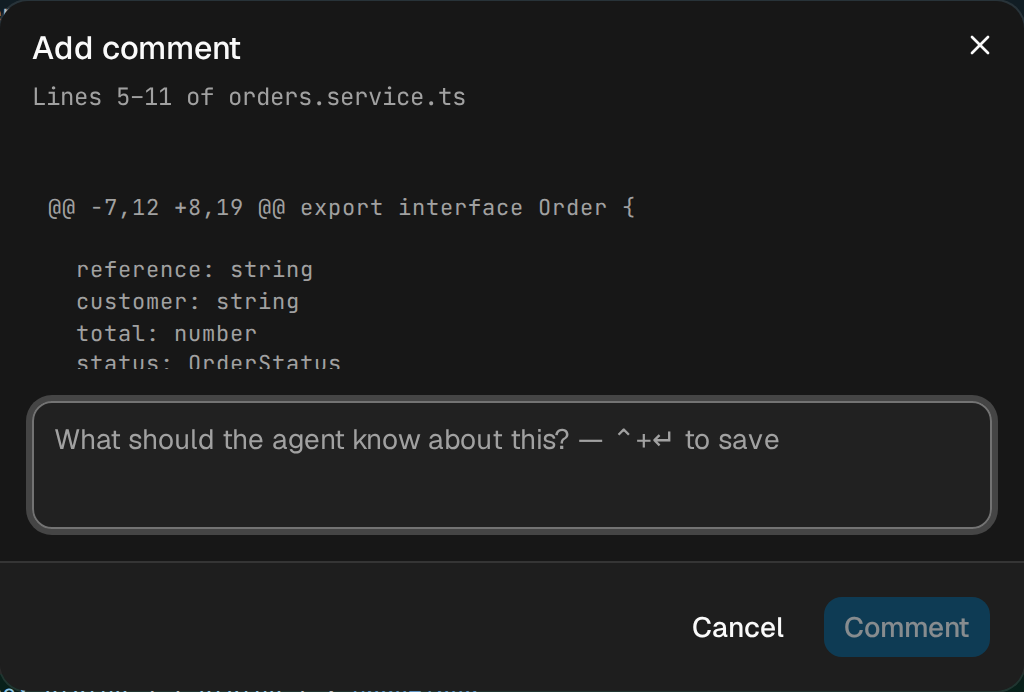
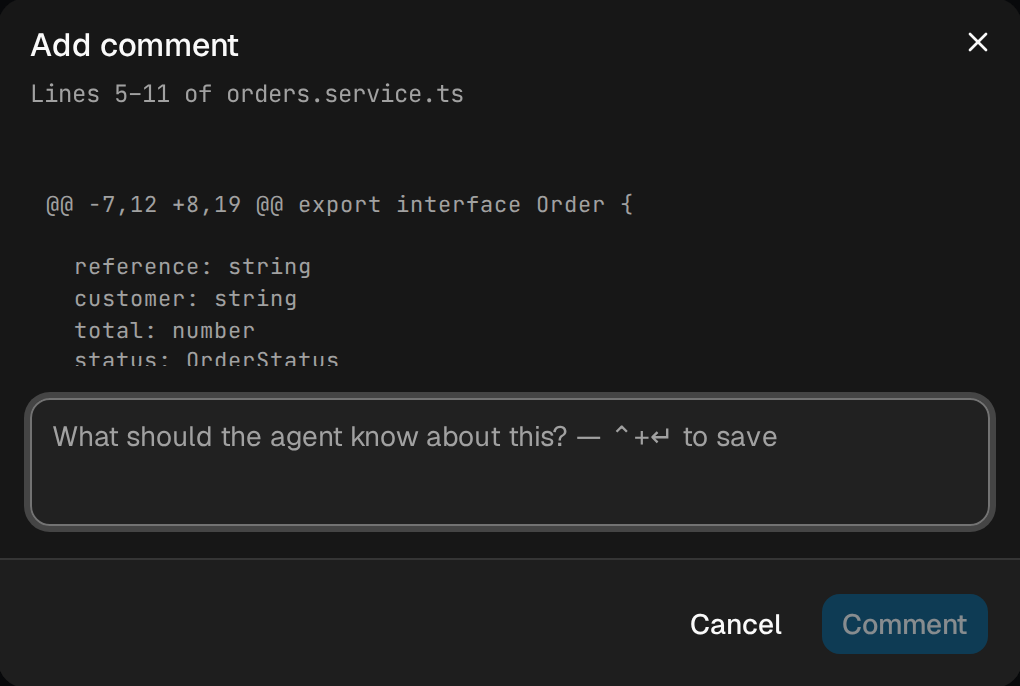
fix(shots): clean modal crops for search and comment
Solidify dialog overlays and inset the clip so rounded corners no longer leak app chrome into marketing PNGs.

diff --git a/e2e/marketing.shots.ts b/e2e/marketing.shots.ts
@@ -83,9 +83,60 @@ async function shoot(page: Page, name: string): Promise<void> {
   await page.screenshot({ path: join(SHOTS_DIR, name), scale: 'device' })
 }
 
-/** Element-scoped Retina screenshot — the tight crops (dialogs, one panel, one surface). */
-async function shootLocator(locator: Locator, name: string): Promise<void> {
-  await locator.screenshot({ path: join(SHOTS_DIR, name), scale: 'device' })
+/**
+ * Modal crops: element screenshots are rectangles, so rounded corners would show
+ * app chrome (selection teal, etc.) through transparent corners. Solidify the
+ * dialog overlay to product dark, drop the soft shadow, then clip a 1px inset.
+ */
+async function shootModal(page: Page, locator: Locator, name: string): Promise<void> {
+  await page.evaluate(() => {
+    document.getElementById('porcelain-shot-modal-mask')?.remove()
+    const mask = document.createElement('div')
+    mask.id = 'porcelain-shot-modal-mask'
+    mask.style.cssText = 'position:fixed;inset:0;z-index:49;background:#090b0c;pointer-events:none'
+    document.body.appendChild(mask)
+    for (const el of document.querySelectorAll<HTMLElement>(
+      '[data-slot="dialog-overlay"], [data-slot="dialog-content"]',
+    )) {
+      el.dataset.porcelainShotOverlay = '1'
+      if (el.getAttribute('data-slot') === 'dialog-overlay') {
+        el.style.setProperty('background', '#090b0c', 'important')
+        el.style.setProperty('backdrop-filter', 'none', 'important')
+        el.style.setProperty('-webkit-backdrop-filter', 'none', 'important')
+      } else {
+        el.style.setProperty('box-shadow', 'none', 'important')
+      }
+    }
+  })
+  try {
+    const box = await locator.boundingBox()
+    if (!box) throw new Error('modal has no bounding box')
+    const pad = 1
+    await page.screenshot({
+      path: join(SHOTS_DIR, name),
+      clip: {
+        x: box.x + pad,
+        y: box.y + pad,
+        width: Math.max(1, box.width - pad * 2),
+        height: Math.max(1, box.height - pad * 2),
+      },
+      scale: 'device',
+    })
+  } finally {
+    await page.evaluate(() => {
+      document.getElementById('porcelain-shot-modal-mask')?.remove()
+      for (const el of document.querySelectorAll<HTMLElement>(
+        '[data-slot="dialog-overlay"], [data-slot="dialog-content"]',
+      )) {
+        if (el.dataset.porcelainShotOverlay !== '1') continue
+        delete el.dataset.porcelainShotOverlay
+        el.style.removeProperty('background')
+        el.style.removeProperty('backdrop-filter')
+        el.style.removeProperty('-webkit-backdrop-filter')
+        el.style.removeProperty('box-shadow')
+      }
+    })
+  }
 }
 
 type Rect = { x: number; y: number; width: number; height: number }
@@ -312,7 +363,7 @@ test('marketing shots — the seeded demo repo across every surface', async () =
     await expect(finder.getByText('OrdersPage.tsx').first()).toBeVisible({ timeout: 10_000 })
     await expect(finder.getByText('Run orders tests')).toBeVisible()
     await settle(page)
-    await shootLocator(finder, 'feat-search.png')
+    await shootModal(page, finder, 'feat-search.png')
     await page.keyboard.press('Escape')
 
     // feat-comment.png — the Add comment dialog over a diff, anchored to a line range.
@@ -344,7 +395,7 @@ test('marketing shots — the seeded demo repo across every surface', async () =
     const commentDialog = page.getByRole('dialog')
     await expect(commentDialog.getByText('Add comment')).toBeVisible({ timeout: 10_000 })
     await settle(page)
-    await shootLocator(commentDialog, 'feat-comment.png')
+    await shootModal(page, commentDialog, 'feat-comment.png')
     await page.keyboard.press('Escape')
 
     await context.close()
